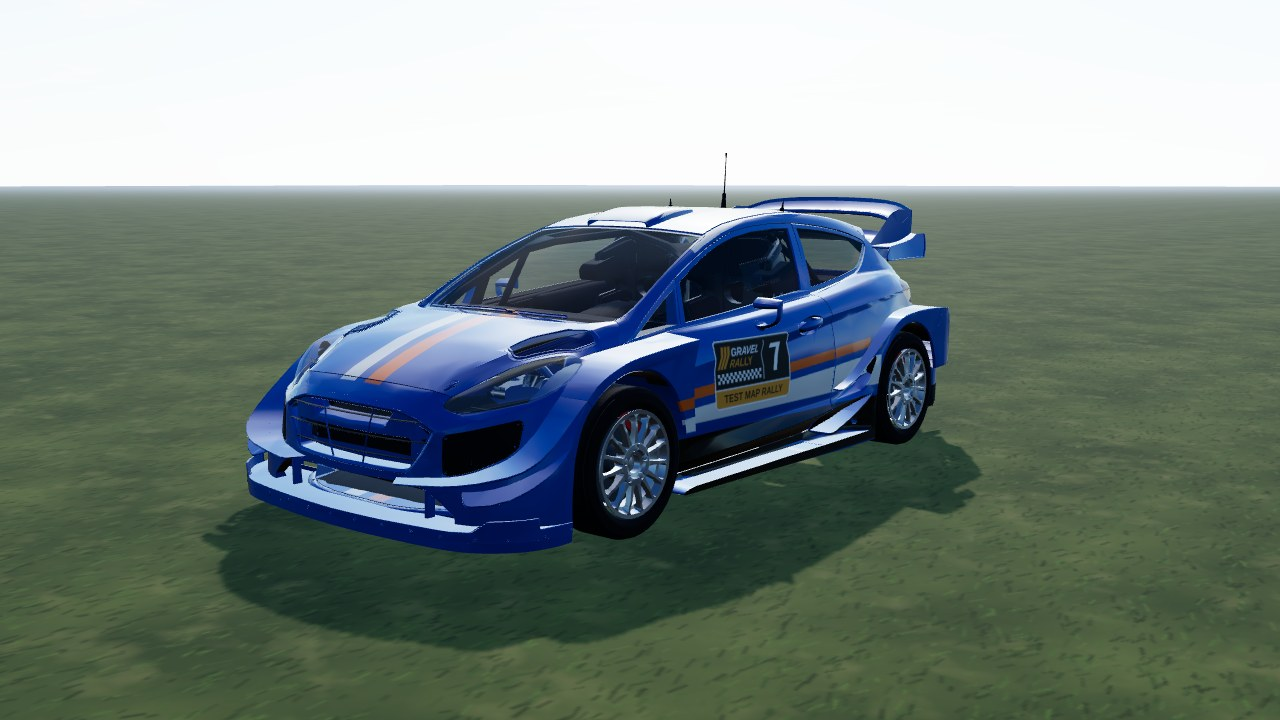
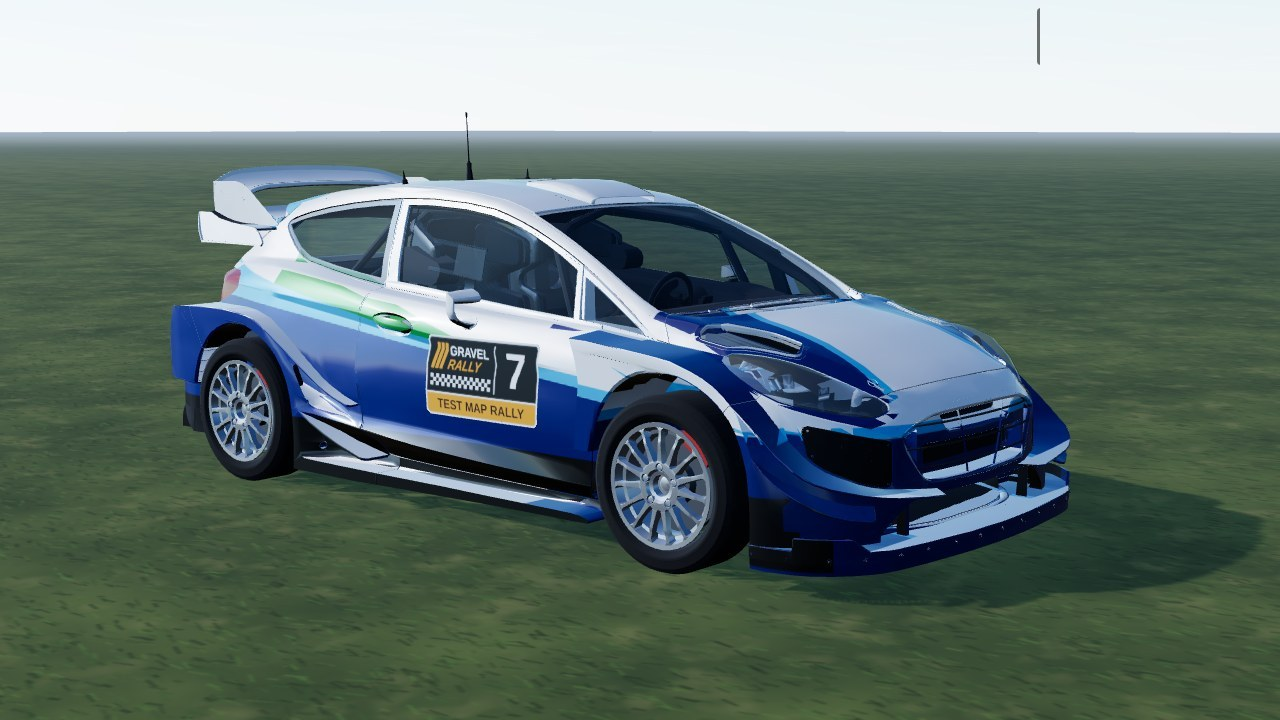
Fiesta WRC: white / navy / light-blue / green livery, shapes only
- navy lower body, light-blue ribbon, green wedge, navy bonnet flanks
- retake screenshots, README

diff --git a/src/games/rally/cars/fiesta/livery.ts b/src/games/rally/cars/fiesta/livery.ts
@@ -6,8 +6,9 @@ import source from './model.source.json';
 /**
  * Runtime paint for the Fiesta WRC BODY (imported GLB, atlas layout in model.source.json). Glass, lamps, interior, wing... are
  * separate parts with their own materials (`parts` in model.source.json -> cars/shared/part-materials.ts), so nothing painted
- * here can reach them. Shapes only, no logos or lettering: white roof, a white + accent wedge running back along both sides
- * (identical left / right), two bonnet stripes. All coordinates are model space (metres).
+ * here can reach them. Shapes only, no logos or lettering, after a white / navy / light-blue / green rally scheme: navy lower
+ * body rising towards the tail, a green wedge and light-blue ribbon on its edge, navy bonnet flanks, white roof (identical left /
+ * right). All coordinates are model space (metres).
  */
 const A = source.atlas;
 const { K, B, CH, sidePx, topPx, frontPx, rearPx } = atlasKit(A);
@@ -78,21 +79,37 @@ const sides = (ctx: CanvasRenderingContext2D, pts: Pt[], style: Fill) => {
   fill(ctx, 'right', pts, style);
 };
 
-// Front arch starts at z ~0.9, rear arch ends at z ~ -0.95: the stripes live between them, clear of the flares.
-const Z_FRONT = 0.9;
-const Z_REAR = -0.95;
+// Front arch starts at z ~0.9, rear arch ends at z ~ -0.95. The navy lower body runs the whole car (arch flares included, as on
+// the real car), so its top edge `yNavy(z)` is one smooth curve that every chart reads at the same z.
+const Z_NOSE = 2.1;
+const Z_TAIL = -2.1;
+/** Navy / white boundary on the sides: low at the nose, rising towards the tail. */
+const yNavy = (z: number) => {
+  const t = (Z_NOSE - z) / (Z_NOSE - Z_TAIL);
+  return 0.52 + 0.33 * (t * t * (3 - 2 * t) * 0.6 + t * 0.4);
+};
+/** Points of the curve between two z values (a shape that follows the boundary). */
+const along = (z0: number, z1: number, dy = 0, n = 14): Pt[] =>
+  Array.from({ length: n + 1 }, (_, i) => {
+    const z = z0 + ((z1 - z0) * i) / n;
+    return [z, yNavy(z) + dy] as Pt;
+  });
 /** Black sill strip between the arches (same y on the side charts only: the skirt has no end faces). */
 const SILL: [number, number] = [0.1, 0.34];
+const END_NAVY = yNavy(Z_NOSE);
+const TAIL_NAVY = yNavy(Z_TAIL);
 
 function paint(
   ctx: CanvasRenderingContext2D,
   info: LiveryInfo,
   seed: number,
 ): void {
-  const white = seed === 0 ? '#f2f2ee' : info.accent;
-  const accent = seed === 0 ? '#ff7a1a' : info.accent2;
+  const white = '#f3f4f6';
+  const navy = seed === 0 ? '#0c2a6e' : info.accent;
+  const sky = seed === 0 ? '#3fb6ea' : info.accent2;
+  const green = seed === 0 ? '#2eaa4a' : info.accent2;
 
-  ctx.fillStyle = info.base;
+  ctx.fillStyle = white;
   ctx.fillRect(0, 0, ctx.canvas.width, ctx.canvas.height);
   // Underside: dark undercoat wherever the body faces down.
   fill(
@@ -107,65 +124,134 @@ function paint(
     '#2a2c2f',
   );
 
-  // --- sides: a wedge that rises towards the tail, an accent line above it, black sill below ---
+  // --- sides: navy lower body, green wedge and a light-blue ribbon on its edge, black sill ---
+  sides(ctx, [[Z_NOSE, 0], [Z_TAIL, 0], ...along(Z_TAIL, Z_NOSE)], {
+    from: [Z_NOSE, 0.5],
+    to: [Z_TAIL, 0.9],
+    stops: [
+      [0, navy],
+      [1, '#12408f'],
+    ],
+  });
+  // green wedge on the white above the edge, between the door and the rear arch
+  sides(ctx, [...along(0.5, -1.2, 0.0, 8), [-1.2, yNavy(-1.2) + 0.3]], green);
+  // light-blue ribbon: thin over the door, a blade round the rear quarter, a second blade over the front arch
   sides(
     ctx,
-    [
-      [Z_FRONT, 0.4],
-      [Z_REAR, 0.4],
-      [Z_REAR, 0.56],
-      [Z_FRONT, 0.46],
-    ],
-    white,
+    [...along(1.5, -0.2, 0.0, 10), ...along(-0.2, 1.5, 0.045, 10)],
+    sky,
   );
   sides(
     ctx,
     [
-      [Z_FRONT, 0.5],
-      [Z_REAR, 0.6],
-      [Z_REAR, 0.65],
-      [Z_FRONT, 0.55],
+      ...along(-0.2, -1.95, 0.0, 10),
+      [-1.95, yNavy(-1.95) + 0.17],
+      [-1.2, yNavy(-1.2) + 0.1],
+      [-0.2, yNavy(-0.2) + 0.045],
     ],
-    accent,
+    sky,
+  );
+  // front fender shard
+  sides(
+    ctx,
+    [
+      [1.9, 0.5],
+      [1.15, 0.64],
+      [0.95, yNavy(0.95) + 0.14],
+      [1.4, yNavy(1.4) + 0.02],
+    ],
+    sky,
   );
   sides(
     ctx,
     [
-      [Z_FRONT, SILL[0]],
-      [Z_REAR, SILL[0]],
-      [Z_REAR, SILL[1]],
-      [Z_FRONT, SILL[1]],
+      [Z_NOSE, SILL[0]],
+      [Z_TAIL, SILL[0]],
+      [Z_TAIL, SILL[1]],
+      [Z_NOSE, SILL[1]],
     ],
     '#141516',
   );
 
-  // --- top: white roof, two stripes on the bonnet ---
-  fill(
-    ctx,
-    'top',
-    [
-      [0.35, -0.7],
-      [-1.55, -0.7],
-      [-1.55, 0.7],
-      [0.35, 0.7],
-    ],
-    white,
-  );
-  for (const [x0, x1, color] of [
-    [-0.13, -0.03, white],
-    [0.03, 0.13, accent],
-  ] as [number, number, string][])
+  // --- ends: navy bumpers with a light-blue line on the same height as the side edge ---
+  for (const [chart, y] of [
+    ['front', END_NAVY],
+    ['rear', TAIL_NAVY],
+  ] as ['front' | 'rear', number][]) {
+    fill(
+      ctx,
+      chart,
+      [
+        [-1.05, 0],
+        [1.05, 0],
+        [1.05, y],
+        [-1.05, y],
+      ],
+      navy,
+    );
+    fill(
+      ctx,
+      chart,
+      [
+        [-1.05, y],
+        [1.05, y],
+        [1.05, y + 0.04],
+        [-1.05, y + 0.04],
+      ],
+      sky,
+    );
+  }
+
+  // --- top: navy flanks on the bonnet, light-blue shards, white roof with a light-blue chevron at the back ---
+  // front fender tops, outside the windscreen corners
+  for (const side of [1, -1])
     fill(
       ctx,
       'top',
       [
-        [0.95, x0],
-        [1.88, x0],
-        [1.88, x1],
-        [0.95, x1],
+        [0.5, side * 0.75],
+        [0.95, side * 0.75],
+        [0.95, side * 1.05],
+        [0.5, side * 1.05],
       ],
-      color,
+      navy,
     );
+  for (const side of [1, -1])
+    fill(
+      ctx,
+      'top',
+      [
+        [0.95, side * 0.34],
+        [1.95, side * 0.46],
+        [1.95, side * 1.05],
+        [0.95, side * 1.05],
+      ],
+      navy,
+    );
+  for (const side of [1, -1]) {
+    fill(
+      ctx,
+      'top',
+      [
+        [0.95, side * 0.3],
+        [1.95, side * 0.42],
+        [1.95, side * 0.46],
+        [0.95, side * 0.34],
+      ],
+      sky,
+    );
+    fill(
+      ctx,
+      'top',
+      [
+        [-0.2, side * 0.05],
+        [-1.5, side * 0.62],
+        [-1.5, side * 0.4],
+        [-0.8, side * 0.05],
+      ],
+      sky,
+    );
+  }
 }
 
 export const fiestaLivery: CarAtlas = {

diff --git a/src/games/rally/cars/fiesta/README.md b/src/games/rally/cars/fiesta/README.md
@@ -1,8 +1,8 @@
 # Fiesta WRC (`fiesta`)
 
 A 2017-spec World Rally Car from a **CC BY Sketchfab model**: the model's body, its **cockpit (seats, dash, roll cage) kept and visible
-through the see-through glass**, its own 14-spoke rim **de-cambered and centred on the hub**, and our own livery (white roof and side
-wedge, orange accent, two bonnet stripes; no logos). The manufacturer badge, plate, spare wheel and dash screens are dropped.
+through the see-through glass**, its own 14-spoke rim **de-cambered and centred on the hub**, and our own livery (white body, navy lower
+body, light-blue ribbon, green wedge; shapes only, no logos). The manufacturer badge, plate, spare wheel and dash screens are dropped.
 In game it is **Fiesta WRC**; the id stays `fiesta`. AWD, 1190 kg, 1.6 turbo. Test car (`TEST_CARS`, dev server only).
 
 ![Front three-quarter](screenshots/front-34.jpg)
